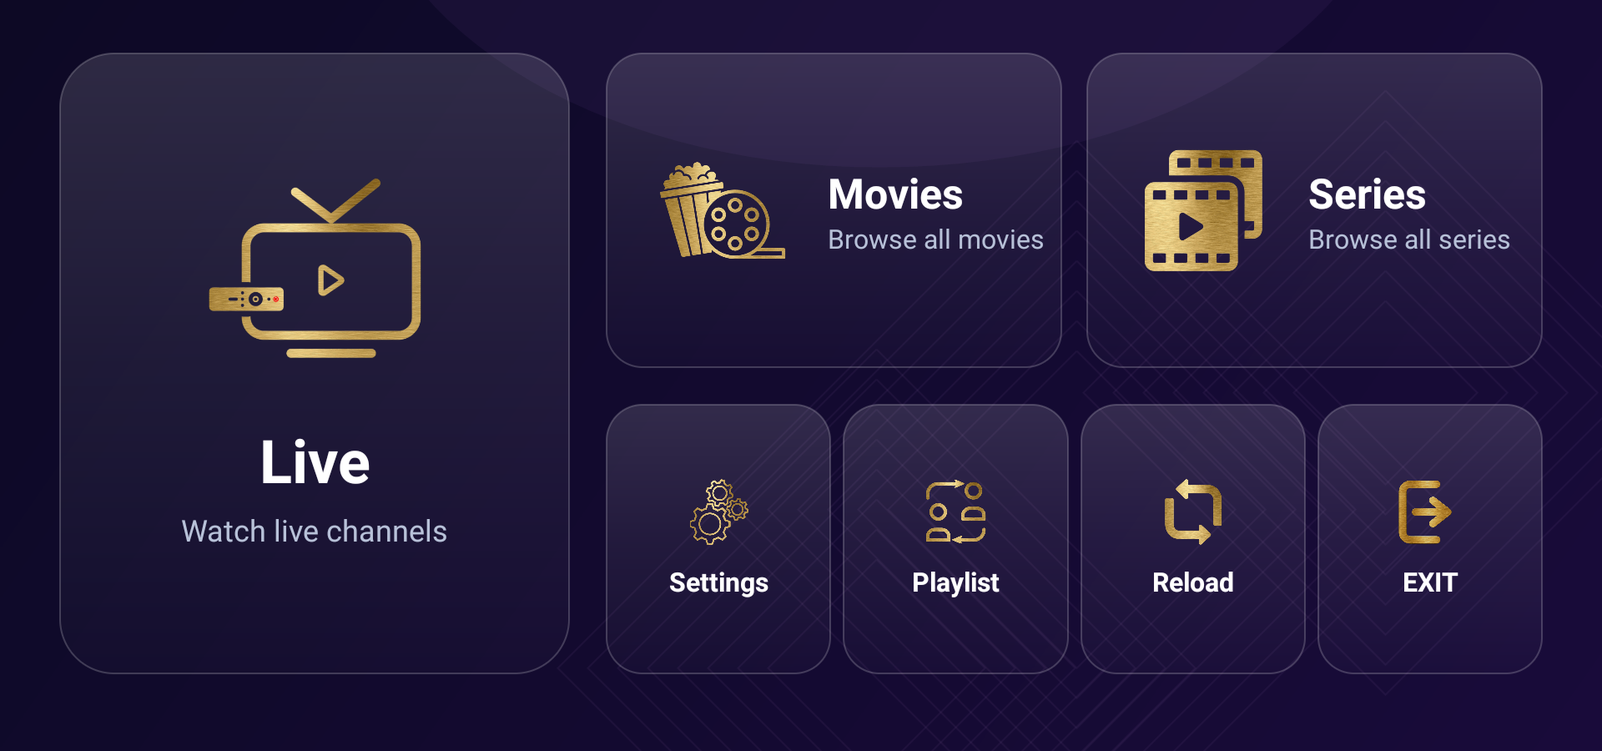
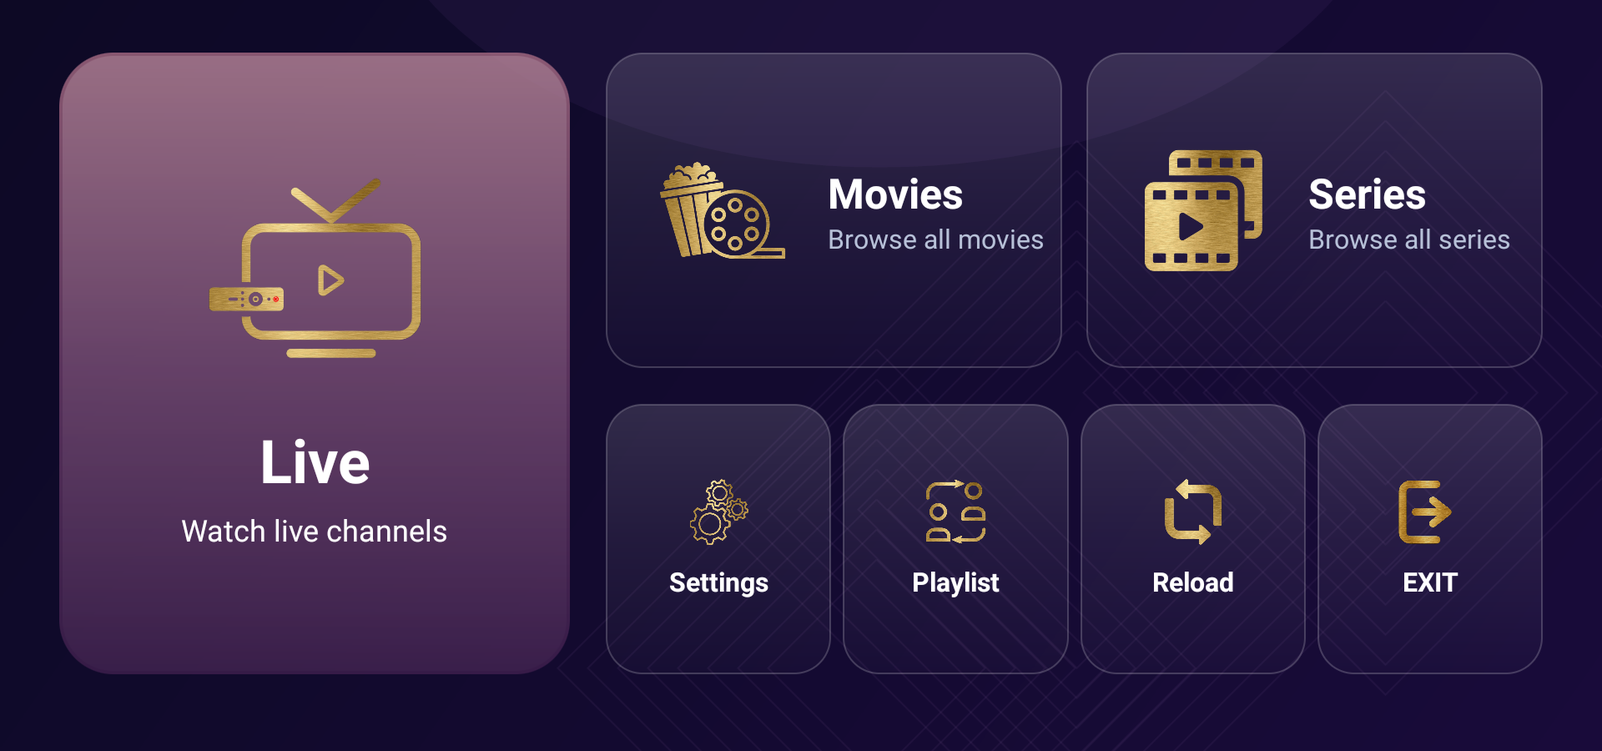
v1.4.0: README and features in Arabic/English, new screenshots

Changed region(s): [[0.0312, 0.0622, 0.375, 0.9022]]

diff --git a/README.md b/README.md
@@ -3,66 +3,90 @@
 **مشغّل IPTV لنظام Android مع واجهة مهيّأة للتلفاز والهاتف.**  
 **An Android IPTV player with an interface designed for TVs and phones.**
 
-> This repository package contains the v1.0.0 APK and documentation. It does not include the original editable source project. See [NOTICE.md](NOTICE.md) before publishing or redistributing the APK.
+> Latest version: **v1.4.0** — download the APK from the [Releases](https://github.com/r1tec-store/R1TV-Player/releases/latest) page.  
+> آخر إصدار: **v1.4.0** — نزّل ملف APK من صفحة [Releases](https://github.com/r1tec-store/R1TV-Player/releases/latest).
 
 ## Screenshots / لقطات الشاشة
 
-| Home / الرئيسية | Playlist form / إضافة قائمة |
+| Home / الرئيسية | Live TV / البث المباشر |
 |---|---|
-| ![Home screen](screenshots/home-screen.png) | ![Add playlist form](screenshots/add-playlist.png) |
+| ![Home screen](screenshots/home-screen.png) | ![Live TV with rounded preview](screenshots/live-tv.png) |
 
-| Playlist status / حالة القائمة | Settings / الإعدادات |
+| Group order / ترتيب المجموعات | EPG sources / مصادر دليل البرامج |
 |---|---|
-| ![Connected playlist](screenshots/playlist-connected.png) | ![Settings](screenshots/settings.png) |
+| ![Moving a group](screenshots/group-order.png) | ![EPG sources](screenshots/epg-sources.png) |
+
+| Settings / الإعدادات | Playlist form / إضافة قائمة |
+|---|---|
+| ![Settings](screenshots/settings.png) | ![Add playlist form](screenshots/add-playlist.png) |
+
+| Playlist status / حالة القائمة | Phone icon / أيقونة الهاتف |
+|---|---|
+| ![Connected playlist](screenshots/playlist-connected.png) | ![Phone launcher icon](screenshots/phone-icon.png) |
 
 ## Features / المميزات
 
+The full list is in [FEATURES.md](FEATURES.md). / القائمة الكاملة في [FEATURES.md](FEATURES.md).
+
 ### English
 
-- First launch opens the playlist setup form directly.
-- Add playlists using an **M3U URL** or **Xtream Codes** credentials; assign a playlist name.
-- Manage saved playlists, see their connection status, connect or disconnect, and refresh them.
-- Browse Live TV, Movies, and Series supplied by the playlist you add.
-- Search across the available items in the current media section.
-- Choose automatic playlist refresh every 6 hours, 12 hours (default), 24 hours, or 48 hours.
-- Import and export app settings and playlist data using the app's backup feature.
-- TV remote navigation with visible focus styling; the live preview can receive focus.
-- Arabic, French, English, Spanish, and Italian interface options.
-- VPN controls are available in Settings.
+- **Playlists** — add an **M3U URL** or **Xtream Codes** login, name it, manage several playlists, see connection status, reload.
+- **Auto-update** — the playlist refreshes every 6, 12 (default), 24 or 48 hours; the EPG is refreshed with it.
+- **Live TV** — groups, channels and a live preview with rounded corners and a rounded focus frame; OK = fullscreen.
+- **Fullscreen channel list** — DOWN shows the group's channels over the video; LEFT / RIGHT switch groups; OK plays.
+- **Group order** — hold OK on a group in Live, Movies or Series, move it with ▲ ▼ (the list follows it past the screen), OK saves instantly, BACK cancels. Hold OK on a fixed row to reset to the provider's order.
+- **EPG (TV guide)** — provider EPG on by default; optional free XMLTV sources and your own `.xml` / `.xml.gz` links, with smart channel matching by name and country.
+- **Movies & Series** — browse by group, sort, search, resume watching, favorites, catch-up where the provider supports it.
+- **Import / Export** — one-click backup to the Download folder; restore from any file-manager app.
+- **TV remote first** — full D-pad navigation; double BACK on the home screen exits, the EXIT tile closes the app directly.
+- **Phones too** — touch layouts, fullscreen player that keeps playing after the notification shade, adaptive launcher icon.
+- **Languages** — Arabic, French, English, Spanish and Italian. VPN controls in Settings.
 
 The app is a player. This repository does not provide IPTV subscriptions, channels, movies, series, playlist URLs, or login credentials. Add only playlists and services you are authorized to use.
 
 ### العربية
 
-- عند التشغيل الأول، يفتح التطبيق نموذج إضافة القائمة مباشرة.
-- إضافة القوائم بواسطة **رابط M3U** أو **بيانات Xtream Codes** مع إمكانية تسمية القائمة.
-- إدارة القوائم المحفوظة وعرض حالة الاتصال، مع خيارات الاتصال وقطع الاتصال والتحديث.
-- تصفح البث المباشر والأفلام والمسلسلات التي توفرها القائمة التي يضيفها المستخدم.
-- البحث في العناصر المتاحة ضمن قسم الوسائط الحالي.
-- التحديث التلقائي للقائمة كل 6 ساعات أو 12 ساعة (افتراضي) أو 24 ساعة أو 48 ساعة.
-- استيراد وتصدير إعدادات التطبيق وبيانات قوائم التشغيل عبر النسخ الاحتياطي.
-- تنقل بجهاز تحكم التلفاز مع إبراز العنصر المحدد، وإمكانية تحديد معاينة البث.
-- واجهة بالعربية والفرنسية والإنجليزية والإسبانية والإيطالية.
-- أدوات VPN موجودة ضمن الإعدادات.
+- **القوائم** — إضافة **رابط M3U** أو **بيانات Xtream Codes** مع تسمية القائمة، وإدارة عدة قوائم ومعرفة حالة الاتصال وإعادة التحميل.
+- **التحديث التلقائي** — تحديث القائمة كل 6 أو 12 (افتراضي) أو 24 أو 48 ساعة، مع تحديث دليل البرامج معها.
+- **البث المباشر** — المجموعات والقنوات ومعاينة مباشرة بزوايا دائرية وإطار تركيز دائري؛ زر OK للشاشة الكاملة.
+- **قائمة القنوات في الشاشة الكاملة** — زر الأسفل يعرض قنوات المجموعة فوق الفيديو، ويمين / يسار للتنقل بين المجموعات، وOK للتشغيل.
+- **ترتيب المجموعات** — اضغط مطولا على OK فوق مجموعة في المباشر أو الأفلام أو المسلسلات، وحرّكها بـ ▲ ▼ (القائمة تتبعها حتى خارج الشاشة)، وOK يحفظ فورا وBACK يلغي. الضغط المطوّل على صف ثابت يعيد ترتيب المزوّد الأصلي.
+- **دليل البرامج EPG** — دليل المزوّد مفعّل افتراضيا، مع مصادر XMLTV مجانية اختيارية وإمكانية إضافة روابط `.xml` أو `.xml.gz` خاصة، ومطابقة ذكية للقنوات حسب الاسم والدولة.
+- **الأفلام والمسلسلات** — تصفح حسب المجموعة والترتيب والبحث ومتابعة المشاهدة والمفضلة والإعادة (Catch-up) عند توفرها من المزوّد.
+- **الاستيراد والتصدير** — نسخة احتياطية بضغطة واحدة إلى مجلد Download والاستعادة من أي تطبيق لإدارة الملفات.
+- **مصمم لجهاز التحكم** — تنقل كامل بالأسهم؛ الضغط مرتين على BACK في الرئيسية للخروج، وزر EXIT يغلق التطبيق مباشرة.
+- **للهاتف أيضا** — واجهات لمس، ومشغل بشاشة كاملة يواصل العمل بعد إنزال الإشعارات، وأيقونة تطبيق متكيفة.
+- **اللغات** — العربية والفرنسية والإنجليزية والإسبانية والإيطالية. أدوات VPN ضمن الإعدادات.
 
 التطبيق مشغّل فقط. لا يوفر هذا المستودع اشتراكات IPTV أو قنوات أو أفلاما أو مسلسلات أو روابط قوائم أو بيانات دخول. أضف فقط القوائم والخدمات التي تملك حق استخدامها.
+
+## What's new in v1.4.0 / الجديد في الإصدار 1.4.0
+
+- Double BACK to exit; the EXIT tile no longer asks yes / no. — الخروج بالضغط مرتين على BACK، وزر EXIT بدون سؤال نعم / لا.
+- EPG defaults: provider EPG on, free EPG sources off. — الإعداد الافتراضي: دليل المزوّد مفعّل والمصادر المجانية معطّلة.
+- Moving a group: it stays visible while moving beyond the screen. — المجموعة المنقولة تبقى ظاهرة أثناء التحريك خارج الشاشة.
+- No more black screen after saving or cancelling a group move. — لا شاشة سوداء بعد حفظ الترتيب أو إلغائه.
+- The white line at the top on some devices is gone; edges match the app background. — إزالة الخط الأبيض العلوي في بعض الأجهزة.
+- Phone: fullscreen player no longer turns black after the notification shade or a pop-up. — الهاتف: المشغل لا يتحول للأسود بعد إنزال الإشعارات.
+- Rounded live preview and rounded focus frame. — معاينة بزوايا دائرية وإطار تركيز دائري.
+- New phone launcher icon. — أيقونة جديدة للتطبيق على الهاتف.
 
 ## App details / معلومات التطبيق
 
 | | |
 |---|---|
 | App name / اسم التطبيق | R1TV Player |
-| Version / الإصدار | 1.0.0 |
+| Version / الإصدار | 1.4.0 (versionCode 14) |
 | Android package / معرّف الحزمة | `com.r1tv.player2` |
 | Minimum Android / الحد الأدنى لأندرويد | Android 5.0, API 21 |
 | Target SDK / إصدار الاستهداف | API 34 |
-| Test device / جهاز الاختبار | Android TV; first-run setup and playlist connection checked |
+| Test device / جهاز الاختبار | Android TV (Android 11) |
 
 ## Download and install / التنزيل والتثبيت
 
-Download `R1TV-Player-v1.0.0.apk` from the repository's **Releases** page and install it on an Android device or Android TV. Android may ask you to allow installation from the app used to open the APK. Review the requested permissions before accepting.
+Download `R1TV-Player-v1.4.0.apk` from the [Releases](https://github.com/r1tec-store/R1TV-Player/releases/latest) page and install it on an Android device or Android TV. It updates an installed v1.x over the top — playlists and settings are kept. Android may ask you to allow installation from the app used to open the APK. Review the requested permissions before accepting.
 
-نزّل `R1TV-Player-v1.0.0.apk` من صفحة **Releases** في المستودع وثبّته على جهاز Android أو Android TV. قد يطلب Android السماح بالتثبيت من التطبيق الذي فتح ملف APK؛ راجع الأذونات المطلوبة قبل الموافقة.
+نزّل `R1TV-Player-v1.4.0.apk` من صفحة [Releases](https://github.com/r1tec-store/R1TV-Player/releases/latest) وثبّته على جهاز Android أو Android TV. يتم التحديث فوق الإصدار المثبّت مع الاحتفاظ بالقوائم والإعدادات. قد يطلب Android السماح بالتثبيت من التطبيق الذي فتح ملف APK؛ راجع الأذونات المطلوبة قبل الموافقة.
 
 ## Backups and privacy / النسخ الاحتياطي والخصوصية
 
@@ -72,4 +96,4 @@ Backup files can contain playlist URLs, Xtream usernames and passwords, and app 
 
 ## License and redistribution / الترخيص وإعادة التوزيع
 
-No open-source license is granted by this repository package. Confirm that you have permission to redistribute the APK and all included third-party components and assets before making the repository public. Details are in [NOTICE.md](NOTICE.md).
+No open-source license is granted by this repository. Confirm that you have permission to redistribute the APK and all included third-party components and assets. Details are in [NOTICE.md](NOTICE.md).

diff --git a/FEATURES.md b/FEATURES.md
@@ -1,51 +1,101 @@
-# R1TV Player — Feature overview / نظرة على المميزات
+# R1TV Player — all features / جميع المميزات (v1.4.0)
 
 ## English
 
-### Playlist setup and management
-- Opens the add-playlist information form on first launch.
-- Supports M3U playlist URLs and Xtream Codes server, username, and password.
-- Supports a custom playlist name; uses “server” when no name is entered.
-- Displays connected or disconnected state and provides connect/disconnect and refresh actions.
-- Refreshes the list after a successful addition or import.
+### Playlists
+- First launch opens the playlist setup form directly.
+- Add a playlist with an **M3U URL** or **Xtream Codes** (server, username, password) and give it a name.
+- Several saved playlists: connection status, connect / disconnect, reload.
+- Automatic playlist refresh every 6, 12 (default), 24 or 48 hours; *Reload* on the home screen refreshes on demand.
 
-### Playback and browsing
-- Live TV, Movies, and Series sections populated from the user's playlist.
-- Search covers items across the current section rather than only the selected category.
-- D-pad navigation for TV, including visible focus and selectable live preview.
-- Landscape-oriented full-screen layouts for media playback.
+### Live TV
+- Three columns: groups, channels, live preview with channel name and programme info.
+- Preview with **rounded corners** and a **rounded focus frame**; OK on the preview or on the playing channel opens fullscreen.
+- Fullscreen: DOWN shows the current group's channels over the video, LEFT / RIGHT switch to the previous / next group, OK plays, BACK closes the list.
+- Previous / next channel, info bar with resolution, favorites, locked groups, search, catch-up when the provider offers it.
+- Hide live groups, channel sort, live stream format, external players.
 
-### Settings and data
-- Automatic playlist update options: 6 hours, 12 hours (default), 24 hours, and 48 hours.
-- Import/export for app settings and playlist data.
-- Available interface languages: Arabic, French, English, Spanish, and Italian.
-- VPN controls in Settings.
+### Group order (Live, Movies, Series)
+- Hold OK on a group → move mode (↕ mark). ▲ ▼ move it; the list scrolls with it, even past the visible rows.
+- OK saves at once (no reload, playback continues); BACK cancels and restores the previous order.
+- Fixed rows (Recently viewed, All, Favorites, Locked, Add group) keep their place. Hold OK on one of them to reset to the provider's order.
+- The order is saved per section and is included in Export.
+
+### EPG (TV guide)
+- Settings → **EPG Sources**: turn sources on / off, *Enable all / Disable all*, add your own XMLTV link (`.xml` or `.xml.gz`), hold OK to delete a custom source.
+- Default: the **provider's EPG is on**, the free sources (IPTV-EPG, IPTV-EPG 2, EPGTalk) are off.
+- External guides are streamed and cached (only the channels of your playlist, −2 h to +26 h) and matched by EPG id, name, country prefix and group.
+- The guide refreshes together with the playlist.
+
+### Movies & Series
+- Browse by group, sort (e.g. by date added), search, resume watching, favorites, hide groups.
+- Movie and series info pages, seasons and episodes, subtitle settings.
+
+### Home screen & exit
+- Tiles: Live, Movies, Series, Settings, Playlist, Reload, EXIT; subscription expiry, clock and date.
+- **BACK twice** on the home screen exits (the first press shows a hint). The **EXIT** tile closes the app directly, without a yes / no question.
+
+### Backup
+- **Export**: one click, saved to `Download/R1TV-Player-backup-<date>.json`.
+- **Import**: choose the file with any file-manager app installed on the device.
+
+### Devices
+- Android TV, Fire TV, phones and tablets; the device type is detected automatically and can be changed in Settings.
+- Phones: touch layouts; the fullscreen player keeps working after pulling down the notification shade or a pop-up.
+- Adaptive launcher icon on phones, banner on TV.
+- Dark background on all screen edges (no light line at the top).
+
+### Other
+- Interface languages: Arabic, French, English, Spanish, Italian.
+- VPN controls, format & units, change layout, clear history (channels, movies, series).
+
+---
 
 ## العربية
 
-### إعداد القوائم وإدارتها
-- يفتح نموذج معلومات إضافة القائمة عند أول تشغيل.
-- يدعم روابط M3U وبيانات Xtream Codes: الخادم واسم المستخدم وكلمة المرور.
-- يدعم تسمية القائمة؛ ويستخدم الاسم “server” إذا لم يُدخل المستخدم اسما.
-- يعرض حالة الاتصال أو عدم الاتصال، ويوفر أزرار الاتصال وقطع الاتصال والتحديث.
-- يحدّث القائمة بعد الإضافة أو الاستيراد بنجاح.
+### القوائم
+- عند التشغيل الأول يفتح نموذج إضافة القائمة مباشرة.
+- إضافة قائمة عبر **رابط M3U** أو **Xtream Codes** (الخادم، اسم المستخدم، كلمة المرور) مع تسميتها.
+- عدة قوائم محفوظة: حالة الاتصال، الاتصال / قطع الاتصال، إعادة التحميل.
+- تحديث تلقائي للقائمة كل 6 أو 12 (افتراضي) أو 24 أو 48 ساعة، وزر *Reload* في الرئيسية للتحديث عند الطلب.
 
-### المشاهدة والتصفح
-- أقسام البث المباشر والأفلام والمسلسلات، بحسب محتوى قائمة المستخدم.
-- البحث يشمل عناصر القسم الحالي ولا يقتصر على الفئة المحددة فقط.
-- تنقل بأزرار الاتجاهات على التلفاز، مع إظهار التركيز وإمكانية تحديد معاينة البث المباشر.
-- واجهات عرض أفقية وملء الشاشة لتشغيل الوسائط.
+### البث المباشر
+- ثلاثة أعمدة: المجموعات، القنوات، ومعاينة مباشرة مع اسم القناة ومعلومات البرنامج.
+- معاينة **بزوايا دائرية** و**إطار تركيز دائري**؛ زر OK على المعاينة أو على القناة المشغّلة يفتح الشاشة الكاملة.
+- في الشاشة الكاملة: زر الأسفل يعرض قنوات المجموعة فوق الفيديو، يمين / يسار للمجموعة التالية / السابقة، OK للتشغيل، BACK لإغلاق القائمة.
+- القناة السابقة / التالية، شريط معلومات مع الدقة، المفضلة، المجموعات المقفلة، البحث، والإعادة (Catch-up) عند توفرها من المزوّد.
+- إخفاء مجموعات المباشر، ترتيب القنوات، صيغة البث المباشر، مشغلات خارجية.
 
-### الإعدادات والبيانات
-- خيارات التحديث التلقائي: كل 6 ساعات أو 12 ساعة (افتراضي) أو 24 ساعة أو 48 ساعة.
-- استيراد وتصدير إعدادات التطبيق وبيانات القوائم.
-- اللغات المتاحة: العربية والفرنسية والإنجليزية والإسبانية والإيطالية.
-- إعدادات VPN.
+### ترتيب المجموعات (المباشر، الأفلام، المسلسلات)
+- اضغط مطولا على OK فوق مجموعة ← وضع التحريك (علامة ↕). ▲ ▼ للتحريك؛ القائمة تتبع المجموعة حتى خارج الصفوف الظاهرة.
+- OK يحفظ فورا (بدون إعادة تحميل ودون توقف البث)؛ BACK يلغي ويعيد الترتيب السابق.
+- الصفوف الثابتة (المشاهدة الأخيرة، الكل، المفضلة، المقفلة، إضافة مجموعة) لا تتحرك. الضغط المطوّل على أحدها يعيد ترتيب المزوّد الأصلي.
+- الترتيب محفوظ لكل قسم ويدخل ضمن التصدير.
 
-## Verified build / النسخة التي تم التحقق منها
+### دليل البرامج EPG
+- الإعدادات ← **EPG Sources**: تفعيل / تعطيل المصادر، *تفعيل الكل / تعطيل الكل*، إضافة رابط XMLTV خاص (`.xml` أو `.xml.gz`)، والضغط المطوّل لحذف مصدر مضاف.
+- الافتراضي: **دليل المزوّد مفعّل**، والمصادر المجانية (IPTV-EPG و IPTV-EPG 2 و EPGTalk) معطّلة.
+- الأدلة الخارجية تُقرأ وتُخزّن مؤقتا (قنوات قائمتك فقط، من −2 ساعة إلى +26 ساعة) وتُطابق حسب المعرّف والاسم وبادئة الدولة والمجموعة.
+- يتحدث الدليل مع تحديث القائمة.
 
-- Version / الإصدار: `1.0.0`
-- Package / الحزمة: `com.r1tv.player2`
-- Minimum Android / الحد الأدنى: API 21 (Android 5.0)
-- Target SDK / الاستهداف: API 34
-- Tested on / تم الاختبار على: Android TV (`192.168.0.143`)
+### الأفلام والمسلسلات
+- التصفح حسب المجموعة، الترتيب (مثلا حسب تاريخ الإضافة)، البحث، متابعة المشاهدة، المفضلة، إخفاء المجموعات.
+- صفحات معلومات الأفلام والمسلسلات، المواسم والحلقات، إعدادات الترجمة.
+
+### الشاشة الرئيسية والخروج
+- المربعات: Live و Movies و Series و Settings و Playlist و Reload و EXIT، مع مدة الاشتراك والساعة والتاريخ.
+- **الضغط مرتين على BACK** في الرئيسية للخروج (الضغطة الأولى تعرض تنبيها). زر **EXIT** يغلق التطبيق مباشرة بدون سؤال نعم / لا.
+
+### النسخ الاحتياطي
+- **التصدير**: بضغطة واحدة إلى `Download/R1TV-Player-backup-<date>.json`.
+- **الاستيراد**: اختيار الملف عبر أي تطبيق لإدارة الملفات مثبّت على الجهاز.
+
+### الأجهزة
+- Android TV و Fire TV والهواتف والأجهزة اللوحية؛ يُكتشف نوع الجهاز تلقائيا ويمكن تغييره من الإعدادات.
+- الهاتف: واجهات لمس؛ المشغل بالشاشة الكاملة يواصل العمل بعد إنزال الإشعارات أو ظهور قائمة منسدلة.
+- أيقونة تطبيق متكيفة على الهاتف وشعار (Banner) على التلفاز.
+- خلفية داكنة على كل أطراف الشاشة (بدون خط فاتح في الأعلى).
+
+### أخرى
+- لغات الواجهة: العربية، الفرنسية، الإنجليزية، الإسبانية، الإيطالية.
+- أدوات VPN، الصيغ والوحدات، تغيير الواجهة، مسح السجل (القنوات، الأفلام، المسلسلات).
